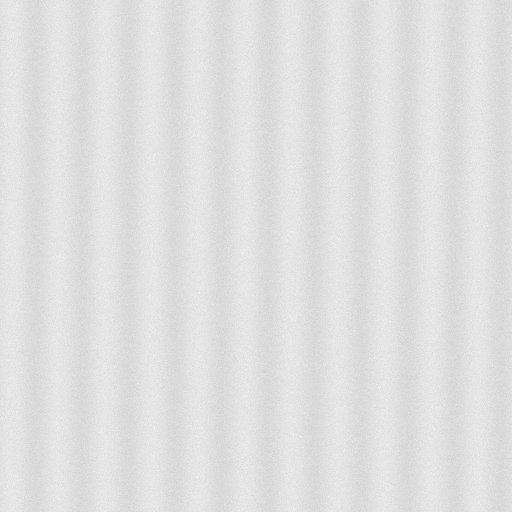
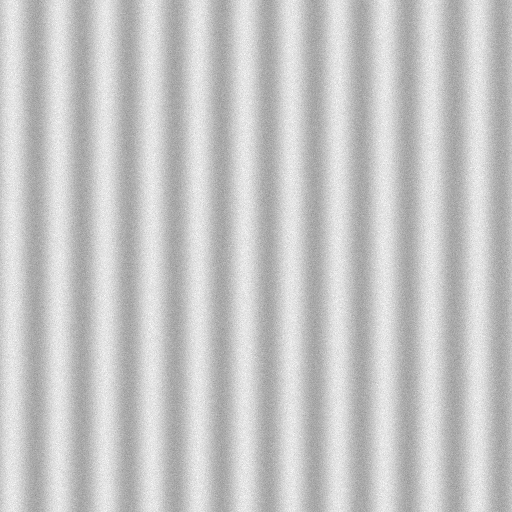
Add dramatic cinematic lighting and individual gear glare

diff --git a/src/main.js b/src/main.js
@@ -1,4 +1,6 @@
 import './style.css';
+import { createGearGlare } from './gear-glare.js';
+import { createCinematicLighting } from './lighting.js';
 import modelConfig from './model-config.json';
 import { createTreatments } from './materials.js';
 import { createContactShading } from './contact-shading.js';
@@ -34,7 +36,7 @@ const chapters = [
   { eyebrow: 'ANATOMIA TEMPORIS', title: 'Intus.<br><em>Mirabilia.</em>', description: 'Aurum, rotae, motus.<br>Ars mechanica sub lumine revelatur.', name: 'ORDO ET MATERIA', action: 'REVELA PARTES' },
   { eyebrow: 'ESSENTIA REVELATA', title: 'Omnia.<br><em>In uno.</em>', description: 'Vitrum, argentum, lumen.<br>Perfectio ex singulis partibus nascitur.', name: 'ESSENTIA REVELATA', action: 'REDI AD INITIUM' },
 ];
-let watchRoot;
+let watchRoot, cinematicLighting, gearGlare;
 let expandedBounds;
 let renderDirty = true;
 let chapter = -1, renderer, composer, camera, controls, scene, bloom, contactShading, studioQuality, explosionTween, cameraTween;
@@ -237,6 +239,7 @@ async function loadWatch() {
     if (materials.some(m => m.name === 'Glass')) { mesh.renderOrder = 2; glass.push(mesh); }
   }
   if (meshes.length !== modelConfig.model.meshCount) throw new Error('Photoreal component coverage failed.');
+  gearGlare = createGearGlare(pickable);
   updateTreatments();
   // Seven restrained labels; all actual meshes remain available by clicking.
   for (const key of ['glass', 'dial', 'gear01', 'movement', 'bridges', 'case', 'bracelet']) {
@@ -272,6 +275,7 @@ async function loadWatch() {
     },
     get appearance() { return { brown: state.brown, finish: state.finish, studioGlass: state.studio }; },
     get rendering() { return { environment: modelConfig.environment, contactShading: !!contactShading?.enabled, shadows: renderer.shadowMap.enabled, opaqueMeshes: pickable.length - glass.length, glassMeshes: glass.length }; },
+    get gearGlareCount() { return gearGlare?.count || 0; },
     get finishProfiles() { return [...new Set(treatedMeshes.flatMap(r => r.variants.map(v => v.profile)).filter(Boolean))]; },
     get cameraPosition() { return camera.position.toArray(); },
     get sourceTransformsMatch() { scene.updateMatrixWorld(true); return [...sourceWorld].every(([mesh, matrix]) => mesh.matrixWorld.elements.every((value, i) => Math.abs(value - matrix.elements[i]) < 1e-6)); },
@@ -335,7 +339,8 @@ function animate() {
     }
     controls.update(Math.min(dt, .25)); scene.updateMatrixWorld(); updateLabels();
   }
-  if (renderDirty) { composer.render(); renderDirty = false; }
+  if (cinematicLighting?.update(state.progress, state.orbit, dt, state.finish, reducedMotion, bloom)) renderDirty = true;
+  if (renderDirty) { gearGlare?.update(camera, state.progress, state.orbit, state.finish, reducedMotion); composer.render(); renderDirty = false; }
 }
 
 function setupScene() {
@@ -373,6 +378,12 @@ function setupScene() {
   scene.add(key);
   const fill = new THREE.DirectionalLight(0xc7dded, .22); fill.position.set(5, -1, 3); scene.add(fill);
   const rim = new THREE.DirectionalLight(0xf2d1a0, .90); rim.position.set(-4, -3, -2); scene.add(rim);
+  cinematicLighting = createCinematicLighting(scene);
+  canvas.addEventListener('pointermove', event => {
+    const rect = canvas.getBoundingClientRect();
+    cinematicLighting.aim((event.clientX - rect.left) / rect.width * 2 - 1, 1 - (event.clientY - rect.top) / rect.height * 2);
+  });
+  canvas.addEventListener('pointerleave', () => cinematicLighting.aim(0, 0));
   scene.add(new THREE.AmbientLight(0xd3dcc5, .04));
   composer = new EffectComposer(renderer); composer.addPass(new RenderPass(scene, camera));
   if (studioQuality) { contactShading = createContactShading(scene, camera, glass); composer.addPass(contactShading); }
@@ -511,6 +522,7 @@ window.addEventListener('pagehide', () => {
   disposed = true; cancelAnimationFrame(animationFrame); scrollTrigger?.kill(); controls?.dispose();
   gsap.killTweensOf(state); stopPlayback(); cameraTween?.kill();
   scene?.traverse(o => { if (o.isMesh) { o.geometry.dispose(); const ms = Array.isArray(o.material) ? o.material : [o.material]; ms.forEach(m => m.dispose()); } });
+  gearGlare?.dispose();
   treatments.dispose();
   scene?.background?.dispose();
   scene?.environment?.dispose(); composer?.passes.forEach(pass => pass.dispose?.()); composer?.dispose(); renderer?.dispose();

diff --git a/src/gear-glare.js b/src/gear-glare.js
@@ -1,0 +1,53 @@
+import * as THREE from 'three';
+
+// Small HDR star kernels attached to real tooth edges. Depth testing keeps
+// hidden gears from shining through the dial, case or other mechanism parts.
+export function createGearGlare(meshes) {
+  const size = 128, pixels = new Uint8Array(size * size * 4);
+  for (let y = 0; y < size; y++) for (let x = 0; x < size; x++) {
+    const u = (x + .5) / size * 2 - 1, v = (y + .5) / size * 2 - 1;
+    const r = Math.hypot(u, v);
+    const core = Math.exp(-r * r * 160);
+    const rays = Math.exp(-Math.abs(u * v) * 180) * Math.exp(-r * 5);
+    const diagonal = Math.exp(-Math.abs(u * u - v * v) * 220) * Math.exp(-r * 10) * .3;
+    const i = (y * size + x) * 4;
+    pixels[i] = pixels[i + 1] = pixels[i + 2] = 255;
+    pixels[i + 3] = Math.round(Math.min(1, core + rays * .7 + diagonal) * 255);
+  }
+  const texture = new THREE.DataTexture(pixels, size, size);
+  texture.needsUpdate = true;
+  const entries = meshes.filter(mesh => mesh.userData.part?.startsWith('gear')).map((mesh, index) => {
+    mesh.geometry.computeBoundingBox();
+    const box = mesh.geometry.boundingBox, center = box.getCenter(new THREE.Vector3());
+    const span = box.getSize(new THREE.Vector3());
+    const material = new THREE.SpriteMaterial({map: texture, color: index % 3 ? 0xffd9a1 : 0xb8e6ff, blending: THREE.AdditiveBlending, depthTest: true, depthWrite: false, toneMapped: false});
+    const sprite = new THREE.Sprite(material);
+    sprite.name = `tooth-glare-${mesh.userData.part}`;
+    const angle = index * 2.39996;
+    sprite.position.set(center.x + Math.cos(angle) * span.x * .36, center.y + Math.sin(angle) * span.y * .36, box.max.z + Math.max(span.z * .03, .0001));
+    const width = Math.max(span.x, span.y) * .65;
+    sprite.scale.set(width, width, 1);
+    mesh.add(sprite);
+    return {sprite, material, index, width};
+  });
+  const world = new THREE.Vector3(), normal = new THREE.Vector3(), view = new THREE.Vector3();
+  return {
+    count: entries.length,
+    update(camera, progress, orbit, enabled, reducedMotion) {
+      for (const {sprite, material, index, width} of entries) {
+        sprite.visible = enabled;
+        if (!enabled) continue;
+        sprite.getWorldPosition(world);
+        normal.set(0, 0, 1).transformDirection(sprite.parent.matrixWorld);
+        view.copy(camera.position).sub(world).normalize();
+        const facing = THREE.MathUtils.smoothstep(normal.dot(view), .05, .65);
+        const sweep = reducedMotion ? .65 : .35 + .65 * Math.pow(.5 + .5 * Math.sin(progress * 15 + orbit * 9 + index * 1.7 + view.x * 3), 5);
+        material.opacity = facing * sweep * .9;
+        material.color.set(index % 3 ? 0xffd9a1 : 0xb8e6ff).multiplyScalar(3.5 + sweep * 4);
+        material.rotation = reducedMotion ? .2 : progress * .8 + index * .3;
+        sprite.scale.setScalar(width * (.8 + sweep * .5));
+      }
+    },
+    dispose() { texture.dispose(); entries.forEach(({sprite, material}) => { sprite.removeFromParent(); material.dispose(); }); },
+  };
+}

diff --git a/src/lighting.js b/src/lighting.js
@@ -1,0 +1,44 @@
+import * as THREE from 'three';
+
+// Broad sources preserve readable metal; thin strips draw traveling highlights.
+export function createCinematicLighting(scene) {
+  const sources = [
+    [0xffbb68, 14, .16, 6],
+    [0x69bbff, 12, .12, 5],
+    [0xfff1d2, 10, 5, .16],
+    [0xff672a, 9, 2, 3],
+  ].map(([color, intensity, width, height]) => {
+    const light = new THREE.RectAreaLight(color, intensity, width, height);
+    scene.add(light);
+    return light;
+  });
+  const target = new THREE.Vector2(), current = new THREE.Vector2();
+  let previous = '';
+  return {
+    aim(x, y) { target.set(x, y); },
+    update(progress, orbit, dt, enabled, reducedMotion, bloom) {
+      current.lerp(reducedMotion ? new THREE.Vector2() : target, 1 - Math.exp(-Math.min(dt, .1) * 5));
+      const p = reducedMotion ? .25 : progress;
+      const turn = reducedMotion ? 0 : orbit;
+      const signature = [p, turn, current.x, current.y, enabled].map(v => typeof v === 'number' ? v.toFixed(4) : v).join(':');
+      if (signature === previous) return false;
+      previous = signature;
+      const sweep = p * Math.PI * 1.6 + turn * Math.PI * 2;
+      const reveal = THREE.MathUtils.smoothstep(p, .12, .8);
+      const aimX = current.x * 1.3, aimY = current.y * .8;
+      sources[0].position.set(-3.8 + Math.sin(sweep) * 2 + aimX, 2.8 + aimY, 4.2);
+      sources[1].position.set(3.8 + aimX, -1.4 + Math.sin(sweep + 1) * 2 + aimY, 2.8);
+      sources[2].position.set(Math.sin(sweep * .7) * 3, 4.2, 1 + Math.cos(sweep) * 3);
+      sources[3].position.set(-2 + Math.cos(sweep) * 3, -3, -2.5);
+      sources.forEach(light => { light.visible = enabled; light.lookAt(0, 0, p * .6); });
+      sources[0].intensity = 12 + Math.sin(sweep) ** 2 * 10;
+      sources[1].intensity = 9 + reveal * 10;
+      sources[2].intensity = 8 + Math.sin(p * Math.PI) ** 4 * 16;
+      sources[3].intensity = 7 + reveal * 12;
+      bloom.strength = enabled ? .38 + reveal * .3 : .014;
+      bloom.radius = .8;
+      bloom.threshold = enabled ? .85 : 3.5;
+      return true;
+    },
+  };
+}

diff --git a/tests/showcase.spec.js b/tests/showcase.spec.js
@@ -181,8 +181,9 @@ test('full studio quality preserves a visible dial with contact shading and shad
   await page.setViewportSize({ width: 800, height: 640 });
   const errors = await load(page, '/?quality=studio');
   expect(await page.evaluate(() => __watchShowcase.rendering)).toEqual({ environment: '/studio.hdr', contactShading: true, shadows: true, opaqueMeshes: 109, glassMeshes: 1 });
+  expect(await page.evaluate(() => __watchShowcase.gearGlareCount)).toBe(16);
   const profiles = await page.evaluate(() => __watchShowcase.finishProfiles);
-  for (const profile of ['sapphire', 'dial', 'enamel', 'steelBrushed', 'steelPolished', 'gold', 'goldPolished']) expect(profiles).toContain(profile);
+  for (const profile of ['sapphire', 'dial', 'enamel', 'steelBrushed', 'steelPolished', 'gold', 'goldPolished', 'gear']) expect(profiles).toContain(profile);
   await setExplosion(page, 450);
   await setExplosion(page, 0);
   expect(await page.evaluate(() => __watchShowcase.sourceTransformsMatch)).toBe(true);

diff --git a/src/materials.js b/src/materials.js
@@ -61,6 +61,7 @@ function sapphireShader(material) {
 }
 
 export function finishProfileName(name, part) {
+  if (part.startsWith('gear')) return 'gear';
   if (name === 'Glass') return 'sapphire';
   if (name === 'Bezel_enamel') return 'enamel';
   if (name === 'Dial_chestnut') return 'dial';

diff --git a/tools/generate_surface_maps.py b/tools/generate_surface_maps.py
@@ -10,8 +10,8 @@ n = 512
 y, x = np.mgrid[0:n,0:n] / n
 
 def save_surface(name, height, roughness):
-    dx = (np.roll(height,-1,1)-np.roll(height,1,1))* .5
-    dy = (np.roll(height,-1,0)-np.roll(height,1,0))* .5
+    dx = (np.roll(height,-1,1)-np.roll(height,1,1))* 2.5
+    dy = (np.roll(height,-1,0)-np.roll(height,1,0))* 2.5
     normals = np.stack([-dx,-dy,np.ones_like(dx)],axis=-1)
     normals /= np.linalg.norm(normals,axis=-1,keepdims=True)
     Image.fromarray(np.uint8(np.clip(normals*.5+.5,0,1)*255)).save(OUT/f'{name}-normal.png')
@@ -21,18 +21,18 @@ def save_surface(name, height, roughness):
 noise = rng.normal(0,1,(n,n))
 # Integer-frequency waves make both borders repeat exactly.
 brush = .75*np.sin(y*2*np.pi*171+.12*np.sin(x*2*np.pi*7)) + .32*np.sin(y*2*np.pi*67) + noise*.009
-save_surface('satin',brush,.90 + .025*np.sin(y*2*np.pi*71) + noise*.010)
+save_surface('satin',brush,.76 + .14*np.sin(y*2*np.pi*71) + noise*.010)
 radial = .4*np.sin((x+y)*2*np.pi*143) + .24*np.sin(x*2*np.pi*37) + noise*.010
-save_surface('machined',radial,.88 + noise*.012 + .025*np.sin(x*2*np.pi*11))
+save_surface('machined',radial,.78 + noise*.025 + .12*np.sin(x*2*np.pi*11))
 # Polished finish with sparse shallow hairline scratches, rather than noisy damage.
-polished=np.zeros((n,n));r=np.full((n,n),.90)
+polished=np.zeros((n,n));r=np.full((n,n),.78)
 for _ in range(14):
  row=int(rng.integers(n));phase=rng.random()*2*np.pi
  stroke=(.5+.5*np.sin(x[row]*2*np.pi*int(rng.integers(1,5))+phase))**4
- polished[row]+=stroke*.10;r[row]+=stroke*.07
+ polished[row]+=stroke*.10;r[row]+=stroke*.18
 save_surface('polished',polished,r)
 # Radial satin cuts for the dial; the central fade avoids aliasing at the arbor.
 u=x-.5;v=y-.5;radius=np.hypot(u,v);angle=np.arctan2(v,u)
 sunburst=.22*np.sin(angle*761)*np.clip(radius/.12,0,1)+noise*.003
-save_surface('sunburst',sunburst,.92+.018*np.sin(angle*97)*np.clip(radius/.2,0,1))
+save_surface('sunburst',sunburst,.78+.15*np.sin(angle*97)*np.clip(radius/.2,0,1))
 print('Generated eight repeatable PBR maps in',OUT)

diff --git a/README.md b/README.md
@@ -30,7 +30,7 @@ Reduced-motion preferences disable automatic camera motion. The slider supports 
 
 The single active GLB contains **110 meshes in 31 groups**, with 16 independently animated gear meshes. The solid brown face has 60 applied indices, Roman numerals, sword hands and a physical open-heart aperture. The outer bezel is clean dark enamel without city lettering. Mechanical parts stay below the dial and hands stay above it throughout the reveal. The closed sapphire crystal has a shallow polished dome and clears every hand. As it separates it tilts and moves aside, with restrained reflections that keep the dial visible.
 
-Shared [finish profiles](src/finish-profiles.json) distinguish polished case steel, brushed bracelet steel, machined gold, polished applied markers, ceramic accents, ivory inlays and sapphire. Eight local normal/roughness maps include a radial sunburst dial. A generated HDR studio uses feathered softboxes; rectangular area illumination, soft shadows and GTAO contact shading make the bridges and gears read with depth. Refraction uses full-opacity transmission with restrained coating reflections, rather than fading away the crystal. Bloom and film grain are restrained to keep the dial legible.
+Shared [finish profiles](src/finish-profiles.json) distinguish polished case steel, brushed bracelet steel, machined gold, polished applied markers, ceramic accents, ivory inlays and sapphire. Eight local normal/roughness maps include a radial sunburst dial. A generated HDR studio uses feathered softboxes; rectangular area illumination, soft shadows and GTAO contact shading make the bridges and gears read with depth. Refraction uses full-opacity transmission with restrained coating reflections, rather than fading away the crystal. Four additional rectangular sources choreograph warm strip reflections, a cool lateral sweep, a traveling overhead highlight and an amber backlight through the reveal and final orbit. Pointer movement gently steers the reflection rig; reversing the sequence reverses the lighting. High-energy amber and ice-blue strips drive pronounced bloom. All 16 gears use a dedicated polished gold finish and individual HDR star glares anchored to their surface; depth testing hides them behind solid parts. The glares change with reveal position and viewing angle, reverse with the sequence, and hold steady for reduced motion. Brushed, machined, polished and sunburst maps carry higher-contrast roughness and deeper micro-normal relief, with layered clearcoat on the studio finishes. Reduced-motion mode holds the rig steady, and the cinematic-finish control disables the added lighting. Film grain remains restrained.
 
 Desktop hardware receives the complete studio pass. Mobile and software GPUs use the same materials and HDR lighting with cheaper shading. For a full-quality diagnostic preview, use `/?quality=studio`. This also lets browser tests exercise contact shading and shadow rendering on software GPUs. The renderer stays idle when the scene does not change.
 
